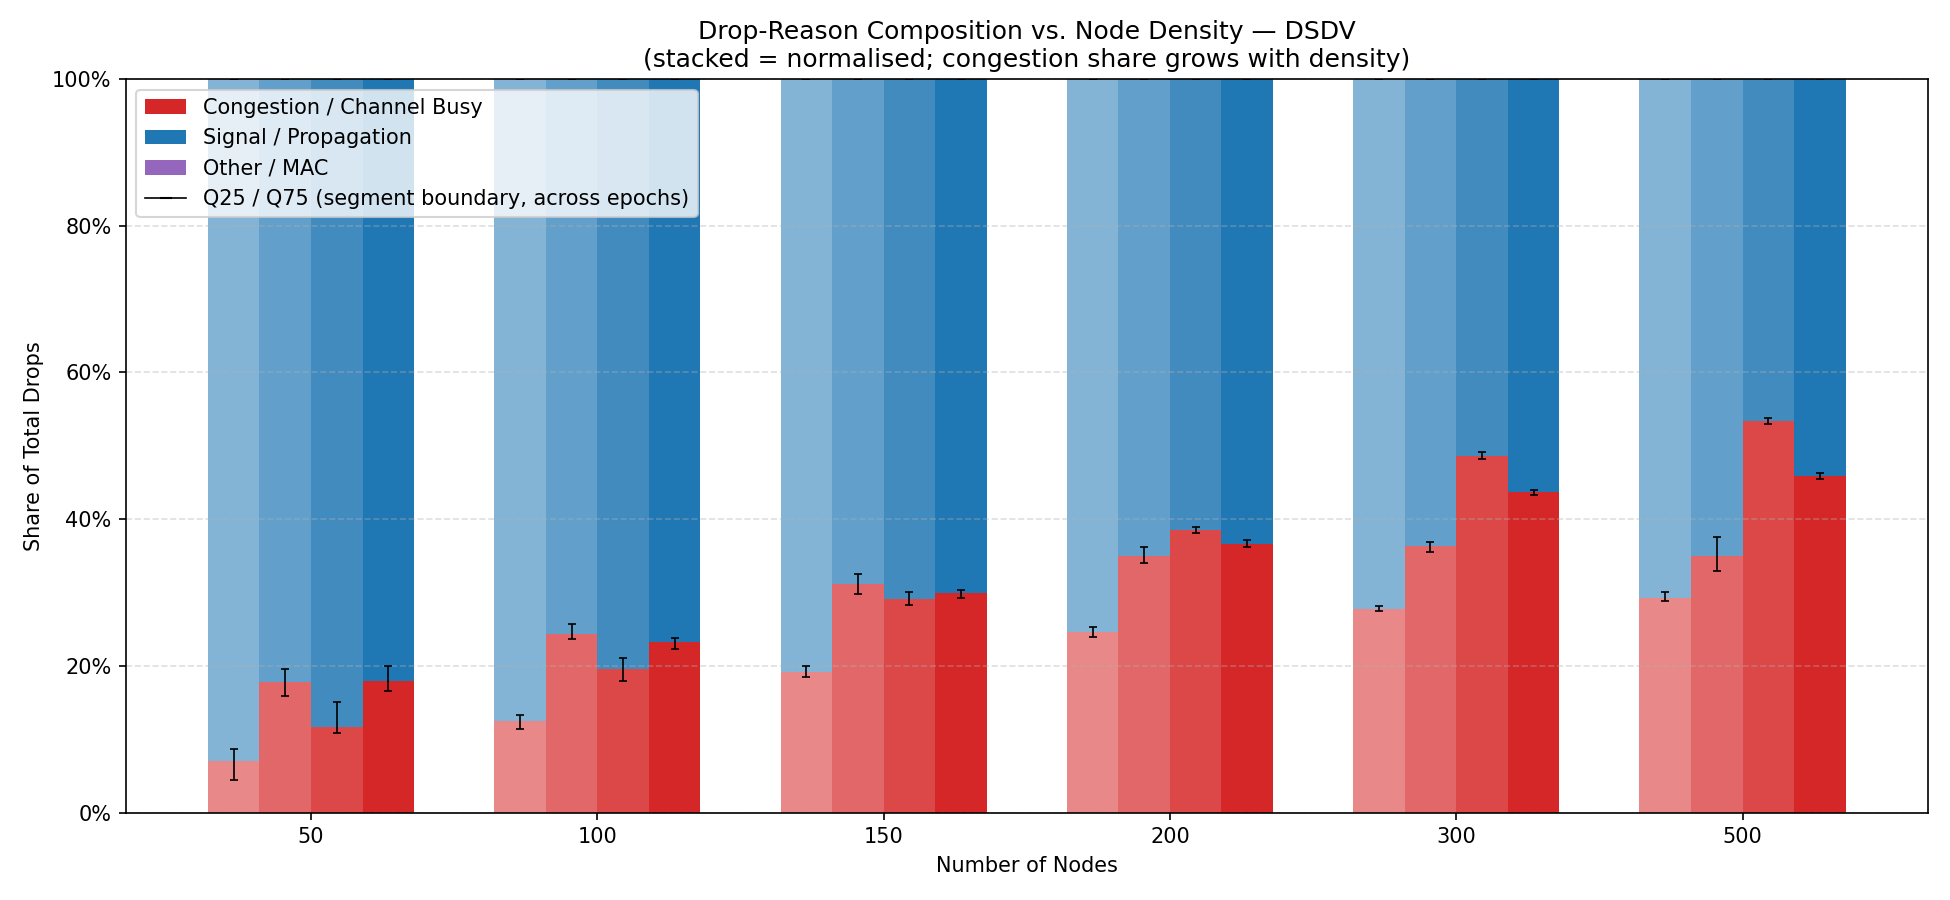
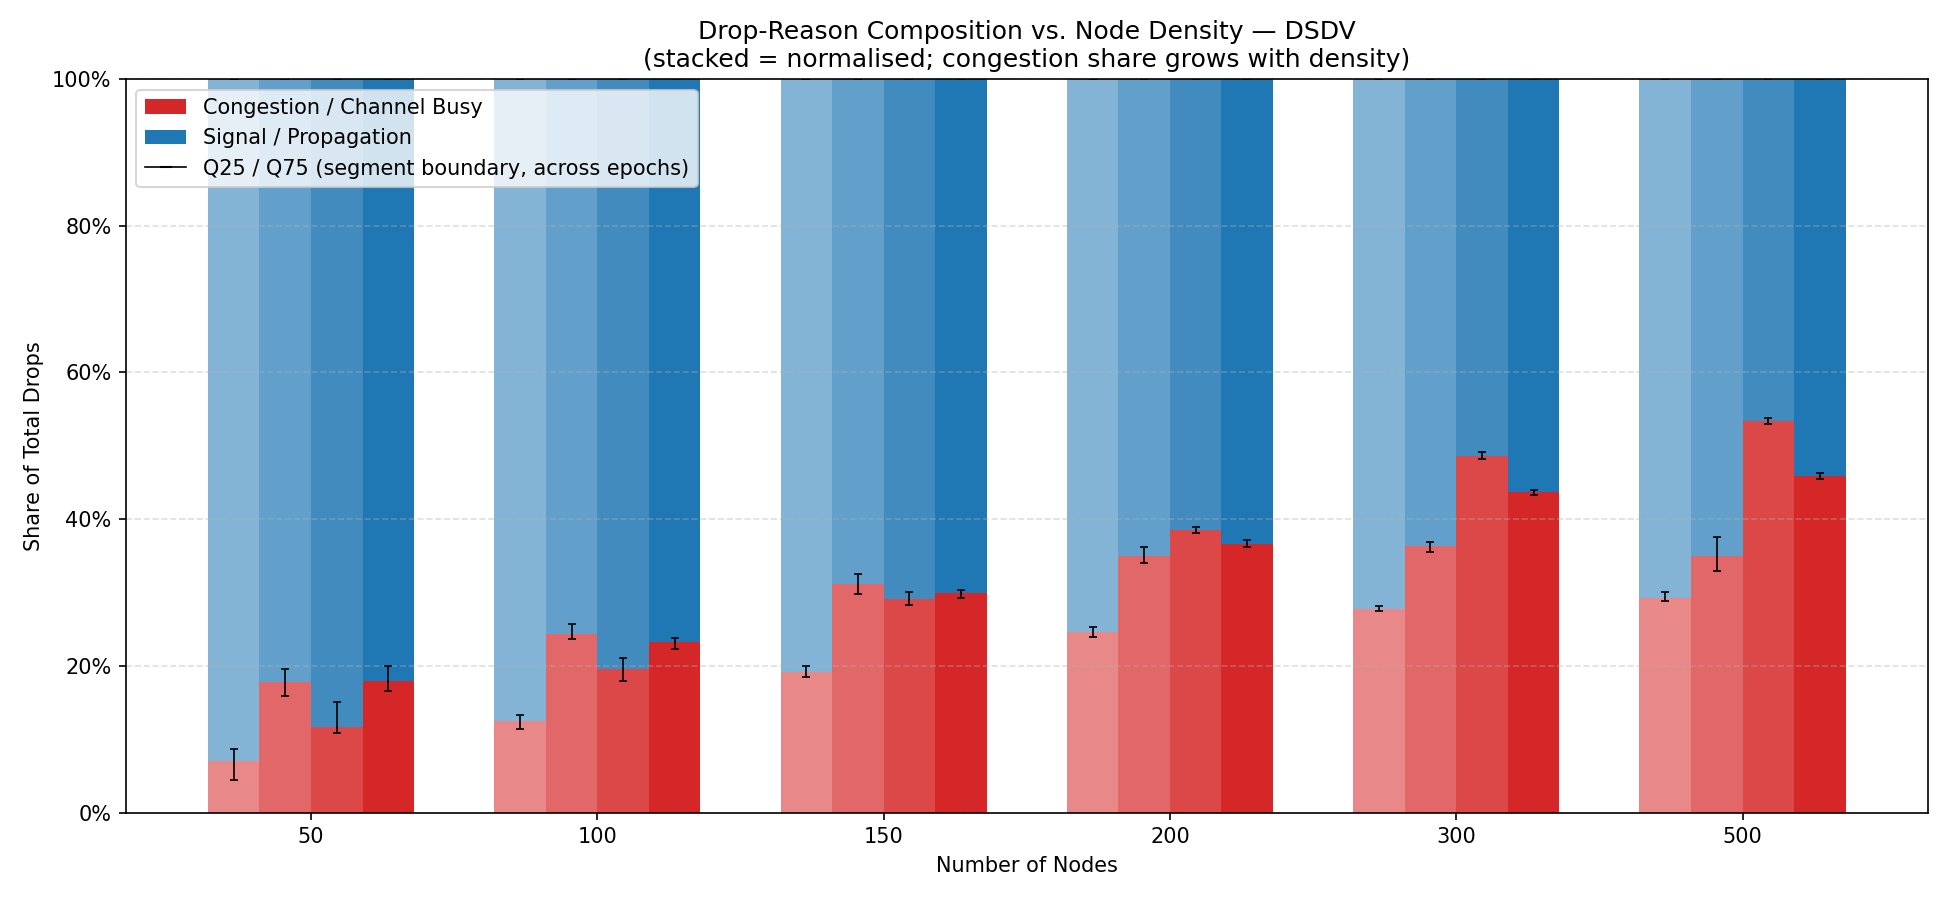
some stuff

Changed region(s): [[0.0615, 0.1556, 0.3692, 0.2489]]

diff --git a/plot_scripts/PlotUrbanComp-sionna.py b/plot_scripts/PlotUrbanComp-sionna.py
@@ -37,13 +37,13 @@ def compute_95ci_halfwidth(values):
     return tval * s / np.sqrt(n)
 
 # === Config ===
-# Location where the simulation output is stored (as produced by UrbanCompMain-v2.cc)
+# Location where the simulation output is stored for Sionna RT results.
 # This script is in plot_scripts/, so we resolve the data directory relative to it.
 SCRIPT_DIR = os.path.dirname(os.path.abspath(__file__))
-source = os.path.normpath(os.path.join(SCRIPT_DIR, "..", "..", "SASB-data", "UrbanRaCompDir-SA-sionna"))
+source = os.path.normpath(os.path.join(SCRIPT_DIR, "..", "..", "SASB-data", "sionna-data", "UrbanRaCompDir-sionna"))
 
 # --- CLI ---
-parser = argparse.ArgumentParser(description="Plot urban comp metrics across epochs")
+parser = argparse.ArgumentParser(description="Plot Sionna UrbanRaCompDir-sionna metrics across epochs")
 parser.add_argument(
     "--epochs",
     "-e",
@@ -104,6 +104,9 @@ routing_overhead_across_epochs = {
     epoch: {algo: [] for algo in algorithms}
     for epoch in BASE_DIRS
 }
+
+success_counts = {algo: {nodes: 0 for nodes in num_nodes_list} for algo in algorithms}
+failure_counts = {algo: {nodes: 0 for nodes in num_nodes_list} for algo in algorithms}
 
 # === Extractors ===
 def extract_pdr_from_csv(csv_path):
@@ -210,16 +213,19 @@ for BASE_DIR in BASE_DIRS:
     for algo in algorithms:
         for nodes in num_nodes_list:
             folder = os.path.join(source, BASE_DIR, algo, "numNodes", str(nodes))
+            success = False
 
             if not os.path.isdir(folder):
-                print(f"MISSING FOLDER: {BASE_DIR}/{algo}/numNodes/{nodes} (skipping point)")
+                print(f"MISSING FOLDER: {BASE_DIR}/{algo}/numNodes/{nodes} (counting as failure)")
                 pdr_vs_nodes[algo].append(np.nan)
                 eed_vs_nodes[algo].append(np.nan)
                 goodput_vs_nodes[algo].append(np.nan)
+                failure_counts[algo][nodes] += 1
                 continue
 
             flow_csv = os.path.join(folder, "flow_information.csv")
             if os.path.isfile(flow_csv):
+                success = True
                 pdr = extract_pdr_from_csv(flow_csv)
                 eed = extract_eed_from_csv(flow_csv)
                 goodput = extract_goodput_from_csv(flow_csv)
@@ -250,6 +256,11 @@ for BASE_DIR in BASE_DIRS:
                     routing_overhead_across_epochs[BASE_DIR][algo].append(np.nan)  # keep index aligned
             else:
                 routing_overhead_across_epochs[BASE_DIR][algo].append(np.nan)
+
+            if success and os.path.isfile(flow_csv):
+                success_counts[algo][nodes] += 1
+            elif not success:
+                failure_counts[algo][nodes] += 1
 
     epochs[BASE_DIR]["pdr_vs_nodes"].append(pdr_vs_nodes)
     epochs[BASE_DIR]["eed_vs_nodes"].append(eed_vs_nodes)
@@ -410,6 +421,29 @@ def plot_routing_overhead_min_max(x_vals, avg_data, min_data, max_data, ylabel, 
     plt.savefig(os.path.join(PLOTS_DIR, f"{filename}.png"))
     plt.close()
 
+
+def plot_success_rate(x_vals, success_rate_data, ylabel, title, xlabel, filename, ylim=(0.0, 1.0)):
+    plt.figure(figsize=(10, 6))
+    for algo in algorithms:
+        y_vals = np.array(success_rate_data[algo], dtype=np.float64)
+        mask = ~np.isnan(y_vals)
+        plt.plot(
+            np.array(x_vals)[mask],
+            y_vals[mask],
+            label=algo.upper(),
+            marker='o',
+            linestyle='-'
+        )
+    plt.ylim(ylim)
+    plt.title(title)
+    plt.xlabel(xlabel)
+    plt.ylabel(ylabel)
+    plt.legend()
+    plt.grid(False)
+    plt.tight_layout()
+    plt.savefig(os.path.join(PLOTS_DIR, f"{filename}.png"))
+    plt.close()
+
 # === Diagnostic: Print averaged values to detect flat-line cause ===
 print(f"\nDiscovered num_nodes_list: {num_nodes_list}")
 print(f"Epochs used: {BASE_DIRS}")
@@ -418,11 +452,14 @@ for algo in algorithms:
     eed_vals = average_metrics_across_epochs["eed_vs_nodes"][algo]
     gp_vals  = average_metrics_across_epochs["goodput_vs_nodes"][algo]
     ro_vals  = average_routing_overhead[algo]
+    success_rate = [success_counts[algo][n] / len(BASE_DIRS) for n in num_nodes_list]
     print(f"\n[{algo.upper()}]")
     print(f"  PDR     : {pdr_vals}")
     print(f"  EED     : {eed_vals}")
     print(f"  Goodput : {gp_vals}")
     print(f"  Rout.OH : {ro_vals}")
+    print(f"  Success : {[success_counts[algo][n] for n in num_nodes_list]}/{len(BASE_DIRS)}")
+    print(f"  Failure : {[failure_counts[algo][n] for n in num_nodes_list]}/{len(BASE_DIRS)}")
 
 # === Final Plot Calls ===
 pdr_ylim = (0.0, 1.0)
@@ -433,4 +470,5 @@ routing_overhead_ylim = (0.0, 2.0)
 plot_metric_by_algorithm(num_nodes_list, average_metrics_across_epochs["pdr_vs_nodes"], "Packet Delivery Ratio", "PDR vs. Number of Nodes (Sionna RT)", "Number of Nodes", "pdr_vs_nodes", yerr_data=average_metrics_ci95_across_epochs["pdr_vs_nodes"], ylim=pdr_ylim)
 plot_metric_by_algorithm(num_nodes_list, average_metrics_across_epochs["eed_vs_nodes"], "End-to-End Delay (s)", "EED vs. Number of Nodes (Sionna RT)", "Number of Nodes", "eed_vs_nodes", yerr_data=average_metrics_ci95_across_epochs["eed_vs_nodes"], ylim=eed_ylim)
 plot_metric_by_algorithm(num_nodes_list, average_metrics_across_epochs["goodput_vs_nodes"], "Goodput (kb/s)", "Goodput vs. Number of Nodes (Sionna RT)", "Number of Nodes", "goodput_vs_nodes", yerr_data=average_metrics_ci95_across_epochs["goodput_vs_nodes"], ylim=goodput_ylim)
+plot_success_rate(num_nodes_list, {algo: [success_counts[algo][n] / len(BASE_DIRS) for n in num_nodes_list] for algo in algorithms}, "Success Rate", "Simulation Success Rate vs. Number of Nodes (Sionna RT)", "Number of Nodes", "success_rate", ylim=(0.0,1.0))
 plot_routing_overhead_min_max(num_nodes_list, average_routing_overhead, min_routing_overhead, max_routing_overhead, "Routing Overhead", "Routing Overhead vs. Number of Nodes (Sionna RT)", "Number of Nodes", "routing_overhead", ylim=routing_overhead_ylim)

diff --git a/analyze_sionna_logs.py b/analyze_sionna_logs.py
@@ -1,0 +1,154 @@
+#!/usr/bin/env python3
+"""Analyze Sionna log files and classify them as complete / error / timeout / unknown."""
+
+from __future__ import annotations
+
+import argparse
+import os
+from pathlib import Path
+from typing import Iterable
+
+COMPLETE_PATTERNS = [
+    "Simulation completed",
+    "Completed successfully",
+    "Run finished",
+    "All done",
+    "Finished executing",
+    "Simulation ended",
+    "successfully",
+    "Sontek?",  # placeholder, not used but to maintain ordering
+]
+TIMEOUT_PATTERNS = [
+    "timed out",
+    "timeout",
+    "TIMEOUT",
+    "time limit",
+    "walltime",
+    "exceeded time",
+    "deadline",
+    "killed by wall-time",
+]
+ERROR_PATTERNS = [
+    "Traceback",
+    "Exception",
+    "Assertion",
+    "Failed",
+    "ERROR",
+    "error",
+    "Killed",
+    "Aborted",
+    "Segmentation fault",
+    "core dumped",
+    "terminate called",
+    "std::bad_alloc",
+    "std::exception",
+    "AssertionError",
+    "Unhandled exception",
+]
+
+
+def read_text(path: Path) -> str:
+    try:
+        return path.read_text(encoding="utf-8", errors="ignore")
+    except OSError:
+        return ""
+
+
+def find_match(text: str, patterns: Iterable[str]) -> list[str]:
+    text_lower = text.lower()
+    return [p for p in patterns if p.lower() in text_lower]
+
+
+def classify_log(out_text: str, err_text: str) -> str:
+    timeout_hits = find_match(out_text + "\n" + err_text, TIMEOUT_PATTERNS)
+    if timeout_hits:
+        return "timeout"
+
+    err_hits = find_match(out_text + "\n" + err_text, ERROR_PATTERNS)
+    if err_hits:
+        return "error"
+
+    complete_hits = find_match(out_text, COMPLETE_PATTERNS)
+    if complete_hits:
+        return "complete"
+
+    if err_text.strip():
+        return "error"
+
+    # Detect likely incomplete build/run from a final progress line or an abrupt ending.
+    if out_text.strip().endswith("]") or out_text.strip().endswith("..."):
+        return "unknown"
+
+    return "unknown"
+
+
+def summarize(directory: Path, show_details: bool) -> dict[str, list[Path]]:
+    results: dict[str, list[Path]] = {"complete": [], "error": [], "timeout": [], "unknown": []}
+    if not directory.exists():
+        raise FileNotFoundError(f"Directory not found: {directory}")
+    for err_path in sorted(directory.glob("*.err")):
+        if not err_path.is_file():
+            continue
+        base_name = err_path.stem
+        out_path = directory / f"{base_name}.out"
+        out_text = read_text(out_path) if out_path.exists() else ""
+        err_text = read_text(err_path)
+        status = classify_log(out_text, err_text)
+        results[status].append(out_path if out_path.exists() else err_path)
+    if not results["complete"] and not results["error"] and not results["timeout"] and not results["unknown"]:
+        # fallback: scan out files if no err files were present
+        for out_path in sorted(directory.glob("*.out")):
+            if not out_path.is_file():
+                continue
+            out_text = read_text(out_path)
+            err_text = ""
+            status = classify_log(out_text, err_text)
+            results[status].append(out_path)
+    if show_details:
+        return results
+    return results
+
+
+def print_summary(results: dict[str, list[Path]]) -> None:
+    total = sum(len(files) for files in results.values())
+    print(f"Found {total} log entries")
+    for status in ("complete", "error", "timeout", "unknown"):
+        files = results[status]
+        print(f"  {status:8}: {len(files)}")
+    print()
+    for status in ("error", "timeout", "unknown", "complete"):
+        files = results[status]
+        if not files:
+            continue
+        print(f"{status.upper()} files ({len(files)}):")
+        for path in files[:20]:
+            print(f"  {path.name}")
+        if len(files) > 20:
+            print(f"  ... plus {len(files)-20} more")
+        print()
+
+
+def main() -> int:
+    parser = argparse.ArgumentParser(
+        description="Analyze Sionna log files for completion, errors, and timeouts."
+    )
+    parser.add_argument(
+        "log_dir",
+        help="Path to the log directory containing .out and .err files",
+        nargs="?",
+        default=r"C:\Users\hugol\Documents\Firenze\B\j1\SASB-data\sionna-data\log",
+    )
+    parser.add_argument(
+        "--details",
+        action="store_true",
+        help="Print the list of files for each status category.",
+    )
+    args = parser.parse_args()
+    directory = Path(args.log_dir).expanduser()
+    results = summarize(directory, args.details)
+    print_summary(results)
+    return 0
+
+
+if __name__ == "__main__":
+    raise SystemExit(main())

diff --git a/plot_scripts/PlotDropData.py b/plot_scripts/PlotDropData.py
@@ -40,7 +40,7 @@ args = parser.parse_args()
 # Paths — mirror PlotUrbanComp-v2.py convention
 # ---------------------------------------------------------------------------
 SCRIPT_DIR = os.path.dirname(os.path.abspath(__file__))
-SOURCE = os.path.normpath(os.path.join(SCRIPT_DIR, "..", "..", "SASB-data", "UrbanRaCompDir-v2"))
+SOURCE = os.path.normpath(os.path.join(SCRIPT_DIR, "..", "..", "SASB-data", "UrbanRaCompDir-SB"))
 PLOTS_DIR = os.path.join(SCRIPT_DIR, "..", "plots-drops")
 os.makedirs(PLOTS_DIR, exist_ok=True)
 
@@ -388,7 +388,6 @@ for algo in ALGORITHMS:
     legend_elements = [
         Patch(facecolor=GROUP_COLORS[0], label="Congestion / Channel Busy"),
         Patch(facecolor=GROUP_COLORS[1], label="Signal / Propagation"),
-        Patch(facecolor=GROUP_COLORS[2], label="Other / MAC"),
         Line2D([0], [0], color='black', linewidth=0.8, marker='_', markersize=6,
                label="Q25 / Q75 (segment boundary, across epochs)"),
     ]
